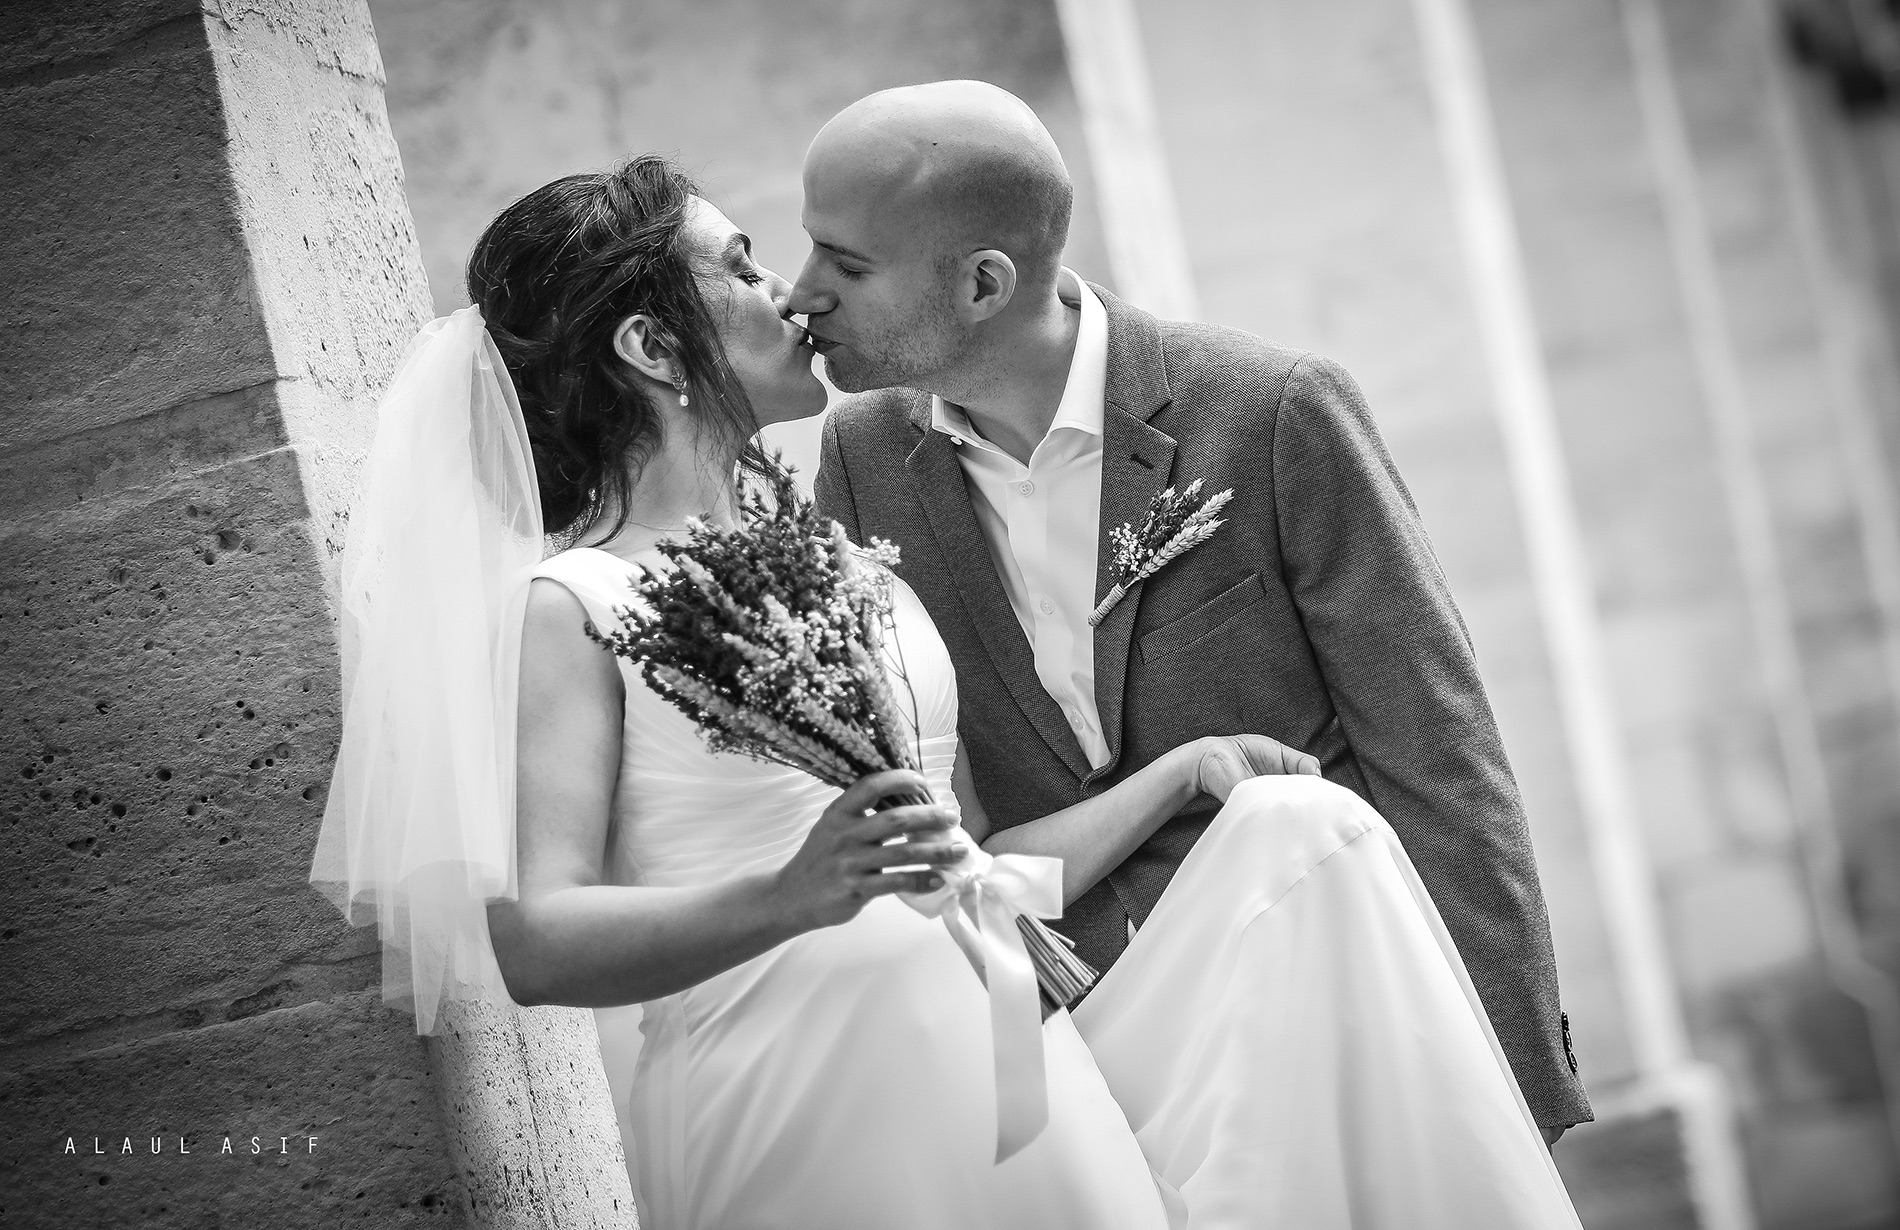
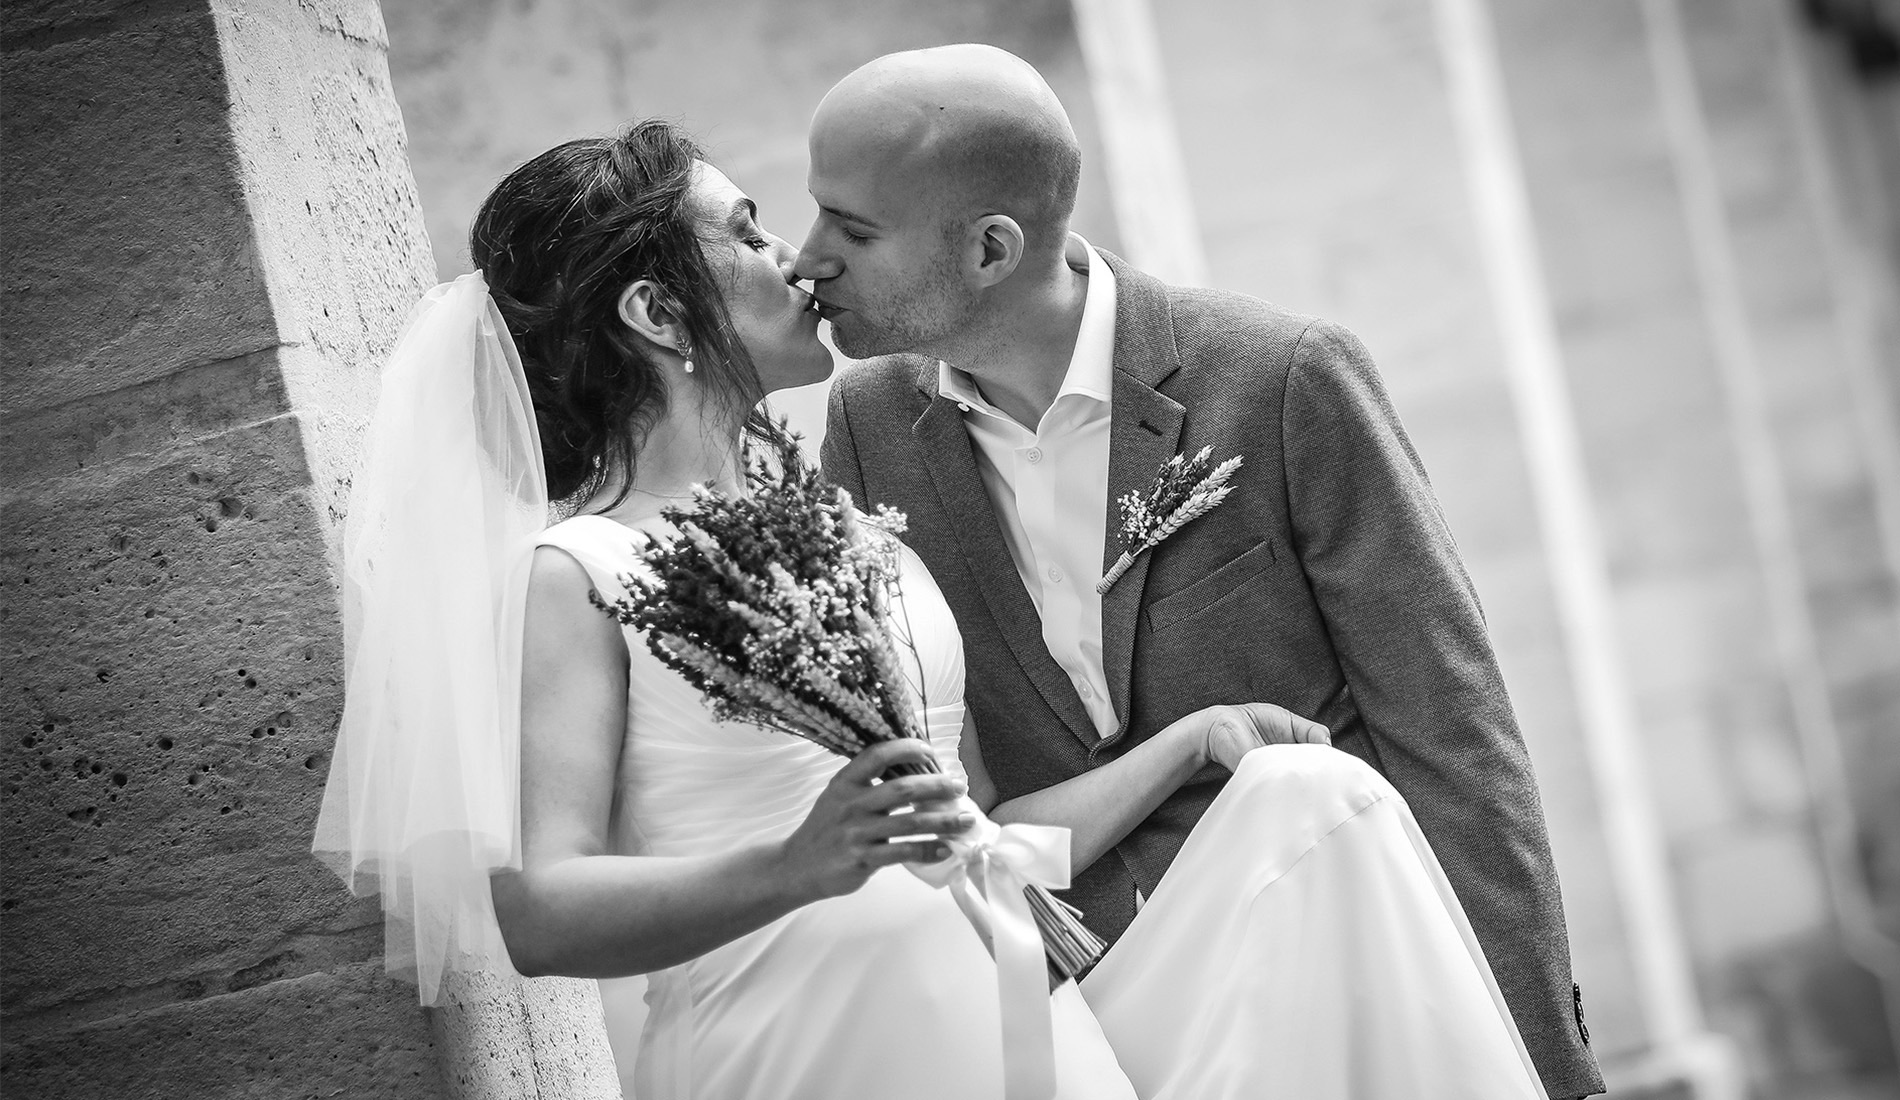
update slider and images

diff --git a/index.html b/index.html
@@ -18,6 +18,10 @@
 <link href="style/type/icons.css" rel="stylesheet">
 <link href='https://fonts.googleapis.com/css?family=Lato:400,900italic,900,700italic,700,400italic,300italic,300' rel='stylesheet' type='text/css'>
 <link href='https://fonts.googleapis.com/css?family=Vidaloka' rel='stylesheet' type='text/css'>
+
+
+<link href="https://netdna.bootstrapcdn.com/bootstrap/3.0.0/css/bootstrap-glyphicons.css" rel="stylesheet">
+
 <!-- HTML5 shim and Respond.js for IE8 support of HTML5 elements and media queries -->
 <!-- WARNING: Respond.js doesn't work if you view the page via file:// -->
 <!--[if lt IE 9]>
@@ -25,6 +29,9 @@
 <script src="https://oss.maxcdn.com/respond/1.4.2/respond.min.js"></script>
 <![endif]-->
 </head>
+<style>
+
+</style>
 
 <body>
 <div class="animsition">
@@ -33,7 +40,8 @@
 
     <div class ="navbar_menu"></div>
     <!-- /.navbar -->
-    <div class="rev_slider_wrapper">
+
+    <!-- <div class="rev_slider_wrapper">
       <div id="slider1" class="rev_slider" data-version="5.0">
         <ul id="slider">
           <li data-transition="parallaxtoright" data-fstransition="fade"> <img src="images/slider/slider_01.jpeg" class="img-fluid" alt=""> </li>
@@ -80,10 +88,84 @@
         </div>
         <div class="tp-bannertimer tp-bottom"></div>
       </div>
-    </div>
+    </div> -->
+
 
     <!-- /.rev_slider -->
+
+<!--Bootstrap Carousel -->
+
+  <div id="myCarousel" class="carousel slide" data-ride="carousel">
+    <!-- Indicators -->
+    <ol class="carousel-indicators">
+      <li data-target="#myCarousel" data-slide-to="0" class="active"></li>
+      <li data-target="#myCarousel" data-slide-to="1"></li>
+      <li data-target="#myCarousel" data-slide-to="2"></li>
+      <li data-target="#myCarousel" data-slide-to="3"></li>
+      <li data-target="#myCarousel" data-slide-to="4"></li>
+      <li data-target="#myCarousel" data-slide-to="5"></li>
+      <li data-target="#myCarousel" data-slide-to="6"></li>
+      <li data-target="#myCarousel" data-slide-to="7"></li>
+      <li data-target="#myCarousel" data-slide-to="8"></li>
+      <li data-target="#myCarousel" data-slide-to="9"></li>
+    </ol>
+
+    <!-- Wrapper for slides -->
+    <div class="carousel-inner">
+
+      <div class="item active">
+        <img src="images/slider/slider_01.jpeg" alt="Los Angeles" style="width:100%;">
+        <div class="carousel-caption">
+          <!-- <h3>Los Angeles</h3>
+          <p>LA is always so much fun!</p> -->
+        </div>
+      </div>
+
+      <div class="item">
+        <img src="images/slider/slider_02.jpeg" alt="" style="width:100%;">
+      </div>
     
+      <div class="item">
+        <img src="images/slider/slider_03.jpeg" alt="" style="width:100%;">
+      </div>
+      <div class="item">
+        <img src="images/slider/slider_04.jpeg" alt="" style="width:100%;">
+      </div>
+      <div class="item">
+        <img src="images/slider/slider_05.jpeg" alt="" style="width:100%;">
+      </div>
+      <div class="item">
+        <img src="images/slider/slider_06.jpeg" alt="" style="width:100%;">
+      </div>
+      <div class="item">
+        <img src="images/slider/slider_07.jpeg" alt="" style="width:100%;">
+      </div>
+      <div class="item">
+        <img src="images/slider/slider_08.jpeg" alt="" style="width:100%;">
+      </div>
+      <div class="item">
+        <img src="images/slider/slider_09.jpeg" alt="" style="width:100%;">
+      </div>
+      <div class="item">
+        <img src="images/slider/slider_10.jpeg" alt="" style="width:100%;">
+      </div>
+  
+    </div>
+
+    <!-- Left and right controls -->
+    <a class="left carousel-control" href="#myCarousel" data-slide="prev">
+      <span class="glyphicon glyphicon-chevron-left"></span>
+      <span class="sr-only">Previous</span>
+    </a>
+    <a class="right carousel-control" href="#myCarousel" data-slide="next">
+      <span class="glyphicon glyphicon-chevron-right"></span>
+      <span class="sr-only">Next</span>
+    </a>
+  </div>
+
+
+  <!--Bootstrap Carousel End-->
+
     <div class="container inner">
       <p class="lead text-center bm0">We're "We.Clickk" team, freelance photographers specializing in wedding, proposal, kids, and conceptual portrait photography based in Toronto, Canada. Here you will be able to find our latest and favorite shots.</p>
     </div>

diff --git a/include/menu.html b/include/menu.html
@@ -1,6 +1,6 @@
 <div class="navbar navbar-default default" role="navigation">
     <div class="navbar-header">
-      <div class="navbar-brand"><a href="index.html"><img src="#" srcset="images/logo_weClick.png 1x, images/logo_weClick.png 2x" alt="" /></a></div>
+      <div class="navbar-brand"><a href="index.html"><img src="#" srcset="images/logo.png 1x, images/logo.png 2x" alt="" /></a></div>
       <div class="nav-bars-wrapper">
         <div class="nav-bars-inner">
           <div class="nav-bars" data-toggle="collapse" data-target=".navbar-collapse"><span></span></div>
@@ -9,10 +9,8 @@
       </div>
       <!-- /.nav-bars-wrapper -->
       <div class="header-other">
-        <div class="btn-group pull-right text-right"> <div class=" btn btn-light dropdown-toggle"><span></span><i class="icon-phone-1"> (437)-667-8685</i></div>
-          
-          <!-- /.dropdown-menu --> 
-        </div>
+        <!-- <div class="pull-right text-right"> <div class=" btn btn-light" style="margin-right: -12px !important;"><span></span><i class="icon-phone-1"> (437)-667-8685</i></div>
+        </div> -->
         <!-- /.btn-group --> 
       </div>
       <!-- /.header-other --> 
@@ -26,6 +24,7 @@
           <li><a href="packages.html">Photography Packages</a></li>
           <li><a href="gallery.html">Photo Gallery</a></li>
           <li><a href="about.html">About Us</a></li>
+     
         </ul>
       </div>
       <!--/.nav-collapse --> 

diff --git a/about.html b/about.html
@@ -31,7 +31,7 @@
     <div class ="navbar_menu"></div>
     <!-- /.navbar -->
     
-    <div class="page-title" style="background-image: url(images/thumbnail/pagetitle3.jpg);">
+    <div class="page-title" style="background-image: url(images/thumbnail/about.jpg);">
       <div class="over"></div>
       <h1>About Us</h1>
     </div>
@@ -55,7 +55,7 @@
            
             <h6 class="sans">Connect Me!</h6>
             <ul class="social">
-              <li><a href="https://www.facebook.com/shaela.quader/" target="_blank"><i class="icon-s-facebook"></i></a></li>
+              <!-- <li><a href="https://www.facebook.com/shaela.quader/" target="_blank"><i class="icon-s-facebook"></i></a></li> -->
               <li><a href="https://www.linkedin.com/in/shaela-ontu/" target="_blank"><i class="icon-s-linkedin"></i></a></li>
               <li><a href="https://www.instagram.com/the_shaelalala/" target="_blank"><i class="icon-s-instagram" target="_blank"></i></a></li>
             </ul>

diff --git a/packages.html b/packages.html
@@ -31,7 +31,7 @@
     <div class ="navbar_menu"></div>
     <!-- /.navbar -->
     
-    <div class="page-title" style="background-image: url(images/thumbnail/pagetitle2.jpg);">
+    <div class="page-title" style="background-image: url(images/thumbnail/package.jpg);">
       <div class="over"></div>
       <h1>Package Details</h1>
     </div>

diff --git a/gallery.html b/gallery.html
@@ -30,7 +30,7 @@
   <main>
     <div class ="navbar_menu"></div>
     <!-- /.navbar -->
-    <div class="page-title" style="background-image: url(images/thumbnail/pagetitle1.jpg);">
+    <div class="page-title" style="background-image: url(images/thumbnail/album.jpg);">
       <div class="over"></div>
       <h1>Photo Albums</h1>
     </div>
